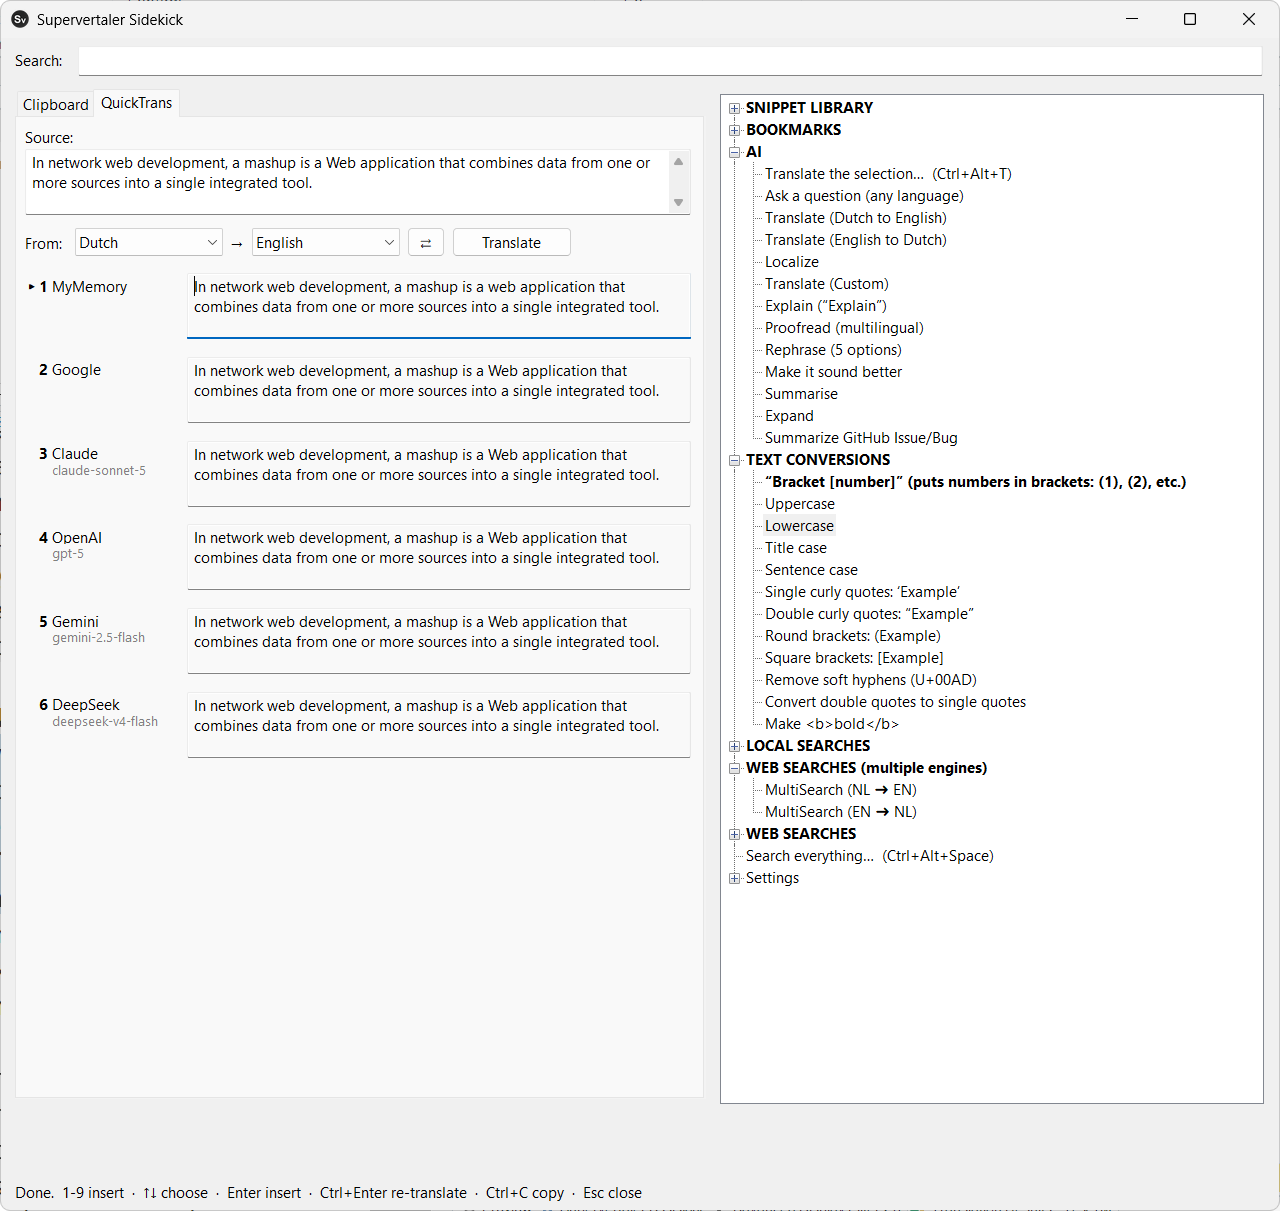
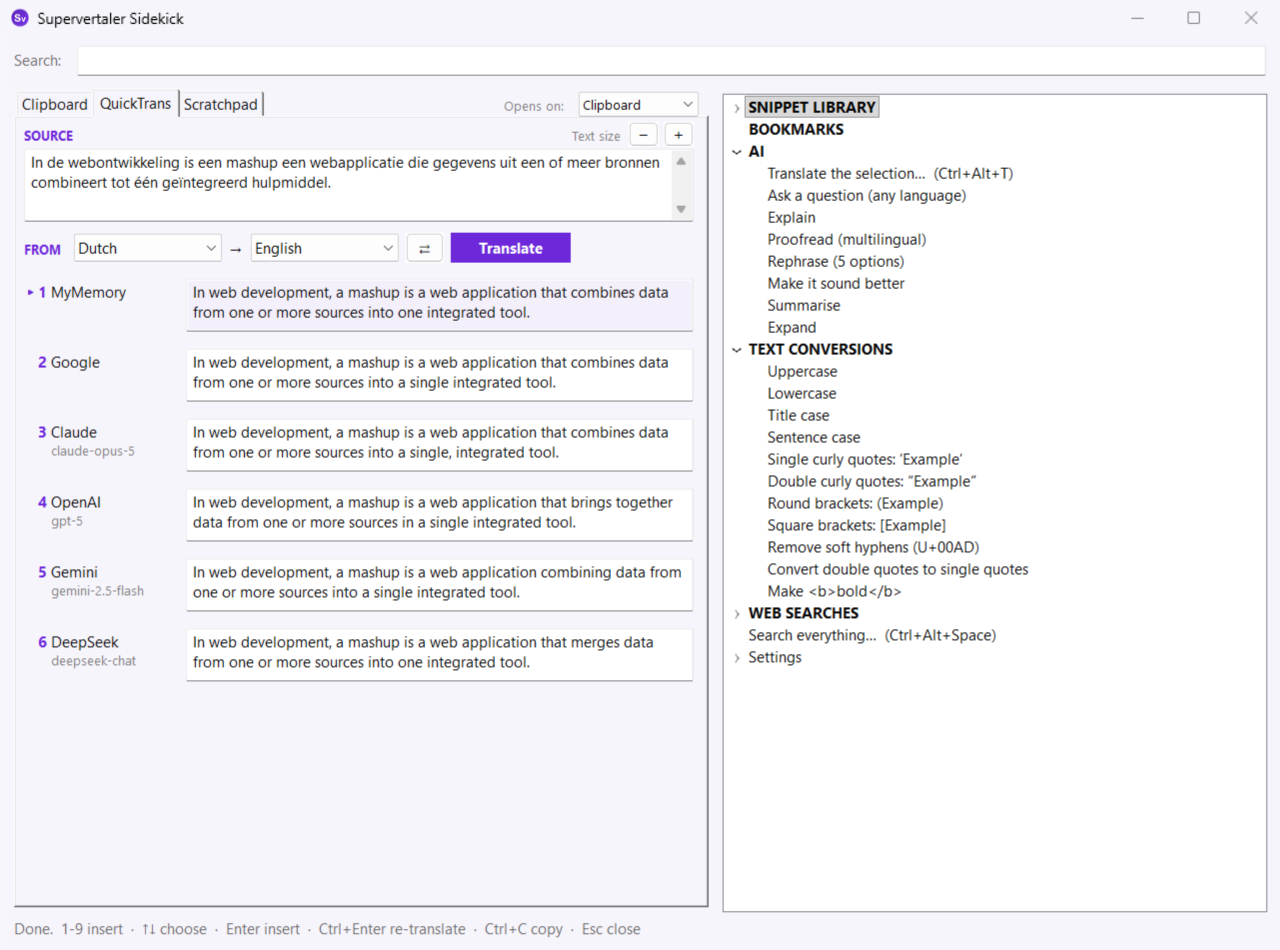
Sidekick page: screenshot of the new look
The main window as it is from Sidekick 2026.11.19.4: faint purple title bar
and background, purple labels and Translate button, the selected
translation tinted. Taken from a copy running the example menu with a
made-up sentence, so nothing in it is anyone's own content.

diff --git a/sidekick/index.html b/sidekick/index.html
@@ -69,7 +69,7 @@
         Supervertaler <a href="/trados/">for Trados</a> and <a href="/memoq/">for memoQ</a>, or on its own.</span>
     </p>
     <p style="margin-top:2rem">
-      <img class="shot" src="/screenshots/Supervertaler-Sidekick-QuickTrans.png" width="1280" height="1211"
+      <img class="shot" src="/screenshots/Supervertaler-Sidekick-QuickTrans.png?v=2" width="1280" height="950"
            alt="Supervertaler Sidekick's window: on the QuickTrans tab, one sentence translated by six engines at once, each answer numbered for inserting; beside it, the menu of snippets, AI actions, text conversions and searches">
     </p>
   </div>
